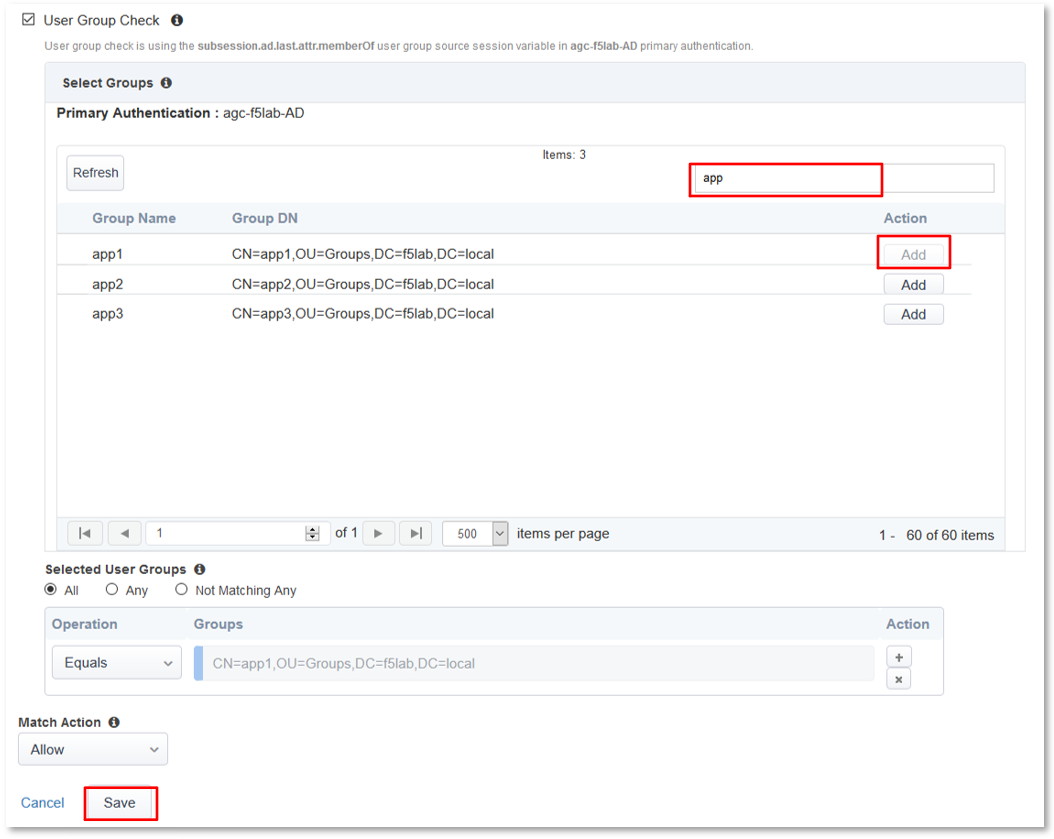
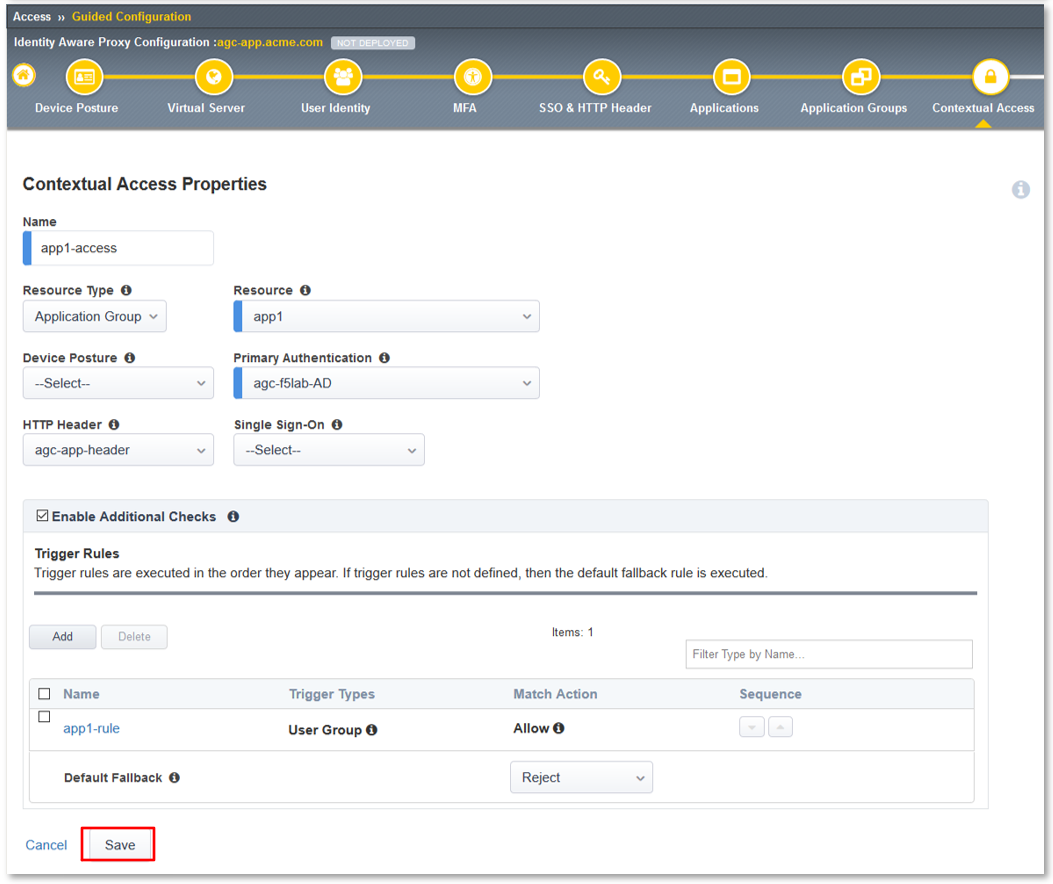
Continued Update

diff --git a/lab1.rst b/lab1.rst
@@ -56,6 +56,7 @@ TASK 1: Intialize Access Guided Configuration (AGC)
 |    screen and click "Next"                                                                   |
 +----------------------------------------------------------------------------------------------+
 | |image003|                                                                                   |
+|                                                                                              |
 | |image004|                                                                                   |
 +----------------------------------------------------------------------------------------------+
 
@@ -275,7 +276,7 @@ TASK 8: Application Groups
 +----------------------------------------------------------------------------------------------+
 | 6. Review the **Applications Groups** dialogue window following completion of step 5 and     |
 |                                                                                              |
-| 7. Click the **Save & Next** button at the bottom of the dialogue window.                                                       |
+| 7. Click the **Save & Next** button at the bottom of the dialogue window.                    |
 +----------------------------------------------------------------------------------------------+
 | |image019|                                                                                   |
 +----------------------------------------------------------------------------------------------+
@@ -284,47 +285,43 @@ TASK 9: Contextual Access
 ~~~~~~~~~~~~~~~~~~~~~~~~~~~~~~~~~~~~~~~~~~~~~~~~~~~~~~~~~~~~~~~~~
 
 +----------------------------------------------------------------------------------------------+
-| 1. Begin by selecting: **Local Traffic** -> **Virtual Servers**                              |
+| 1. In the **Contextual Access Properties** dialigue window, enter **app1-access** in the     |
 |                                                                                              |
-| 2. Click the **Create** button (far right)                                                   |   
+|    **Name** field.                                                                           |   
+|                                                                                              |
+| 2. Select **Application Group** from the **Resource Type** drop down.                        |   
+|                                                                                              |
+| 3. Select **app1** from the **Resource** drop down.                                          |  
+|                                                                                              |
+| 4. Select **agc-f5lab-AD** from the **Primary Authentication** drop down.                    |  
+|                                                                                              |
+| 5. Select **agc-app-header** from the **HTTP Header** drop down.                             |  
+|                                                                                              |
+| 6. Check the **Enable Addtional Checks** checkbox.                                           |  
+|                                                                                              |
+| 7. In the **Trigger Rules** section that appears, click the **Add** button                   |
 +----------------------------------------------------------------------------------------------+
-| |image017|                                                                                   |
+| |image020|                                                                                   |
 +----------------------------------------------------------------------------------------------+
 
 +----------------------------------------------------------------------------------------------+
-| 3. In the **New Virtual Server** window, key in the following as shown:                      |
+| 8. In the **Contextual Access Properties > Trigger > New** window, chnage the **Name**       |
 |                                                                                              |
-|    -  **Name**: **app.f5demo.com**                                                           |
+|    field to **app1-rule**.                                                                   |
 |                                                                                              |
-|    -  **Destination Address/Mask**: **10.1.10.100**                                          |
-|                                                                                              |
-|    -  **Service Port**: **443**                                                              |
-|                                                                                              |
-|    -  **HTTP Profile:** **http** (drop down)                                                 |
-|                                                                                              |
-|    -  **SSL Profile (client):** **app.f5demo.com-clientssl**                                 |
-|                                                                                              |
-|    -  **Source Address Translation:**  **Auto Map**                                          |
-|                                                                                              |
-| 4. Scroll to the **Access Policy** section                                                   |
-|                                                                                              |
-|    -  **Access Profile**: **app.f5demo.com-policy**                                          |
-|                                                                                              |
-|    -  **Per-Request Policy:** **saml\_policy**                                               |
-|                                                                                              |
-| 5. Scroll to the Resource section                                                            |
-|                                                                                              |
-|    -  **Default Pool**: **app.f5demo.com\_pool**                                             |
-|                                                                                              |
-| 6. Scroll to the bottom of the configuration window and click **Finished**                   |
-|                                                                                              |
-| *Note: The use of the Per-Request Policy is to provide header injection and other controls.* |
-|                                                                                              |
-| *These will be more utilized later in the lab.*                                              |
+| 9. Check the **User Group Check** checkbox.                                                  |
 +----------------------------------------------------------------------------------------------+
-| |image018|                                                                                   |
+| |image021|                                                                                   |
++----------------------------------------------------------------------------------------------+
+
++----------------------------------------------------------------------------------------------+
+| 8. In the **Contextual Access Properties > Trigger > New** window, chnage the **Name**       |
 |                                                                                              |
-| |image019|                                                                                   | 
+|    field to **app1-rule**.                                                                   |
+|                                                                                              |
+| 9. Check the **User Group Check** checkbox.                                                  |
++----------------------------------------------------------------------------------------------+
+| |image021|                                                                                   |
 +----------------------------------------------------------------------------------------------+
 
 TASK 6: Test the SAML SP
